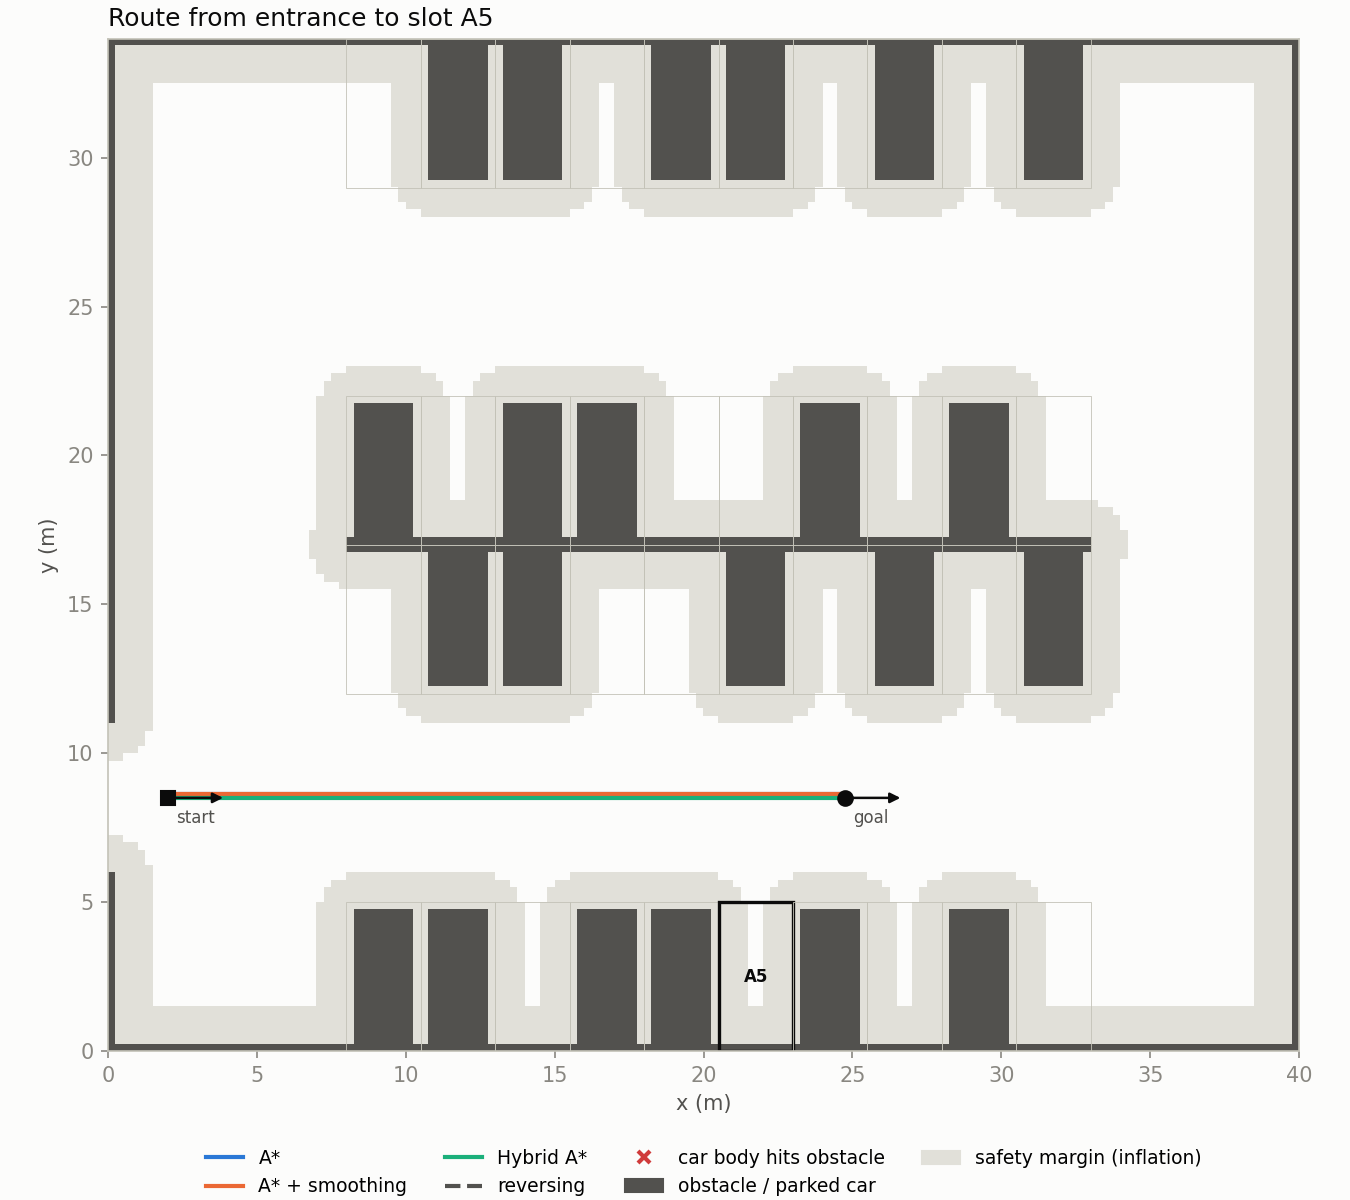
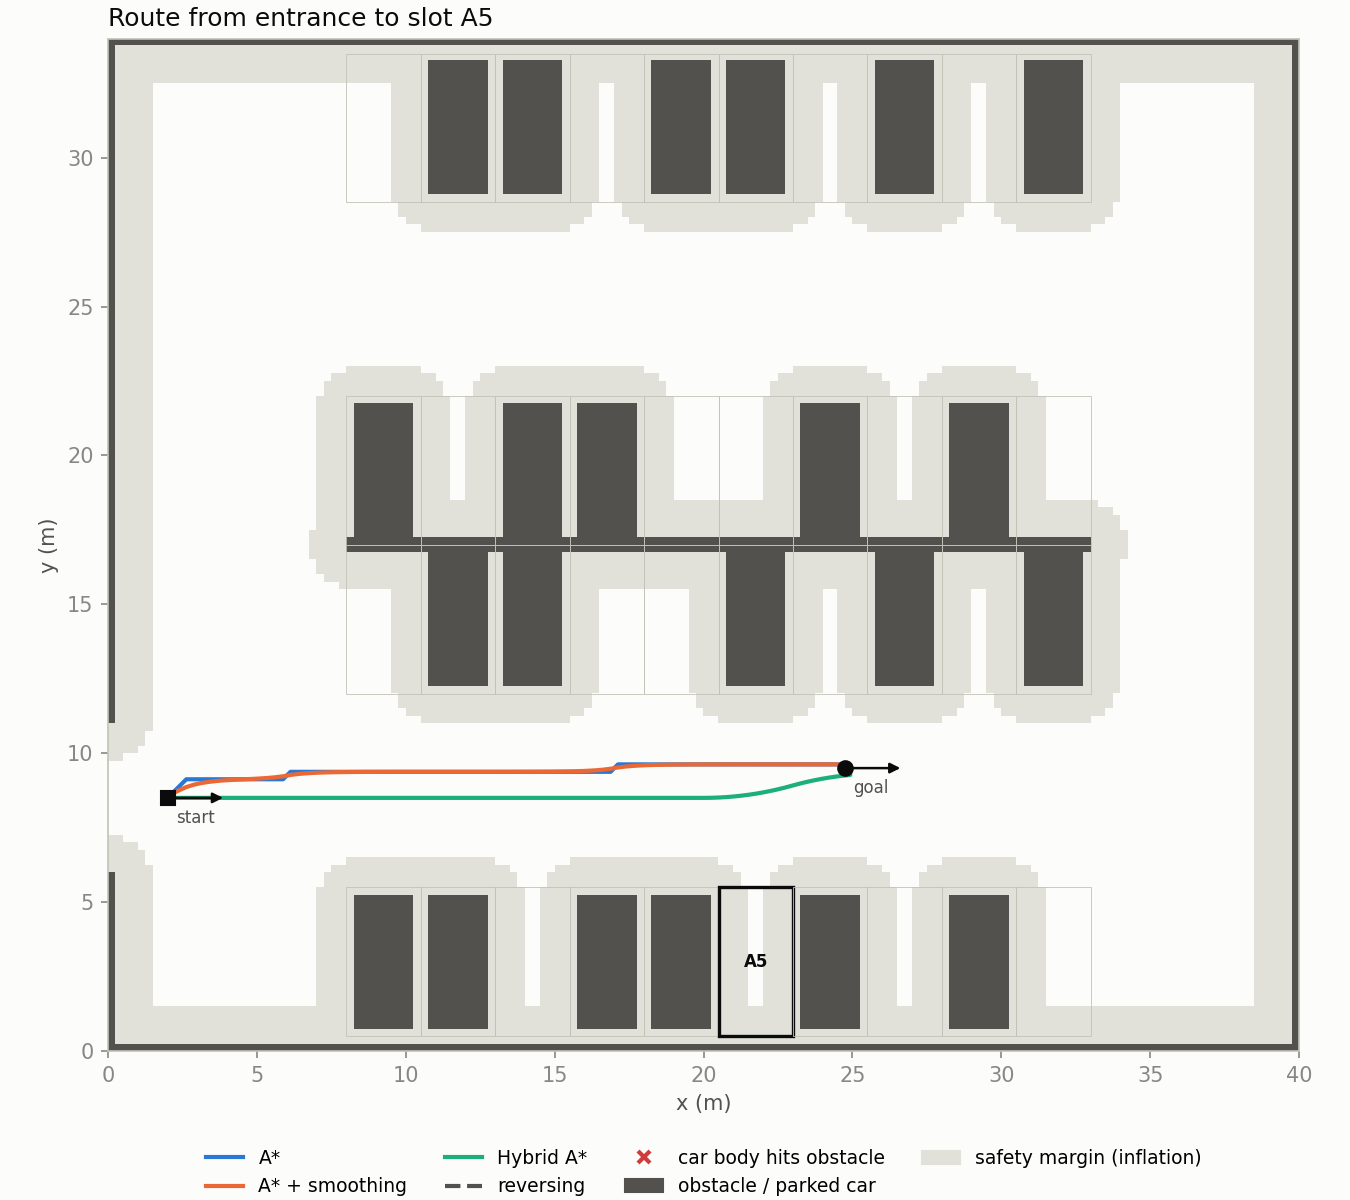
Update planner comparison results for the new lot layout
Rows A and D moved off the wall and the pre-park pose is 4 m from the bay
entrance, so goals and timings changed; the ranking of the methods did not.

diff --git a/results/planner_comparison.md b/results/planner_comparison.md
@@ -9,32 +9,32 @@ Car: wheelbase 2.8 m, max steer 28.6 deg, min turning radius 5.13 m, max curvatu
 
 | Method | Success | Length (m) | Time (ms) | Nodes expanded | Max curvature, worst route (1/m) | Over-limit length (m) | Total turning (deg) | Footprint hits | Goal heading error (deg) |
 |---|---|---|---|---|---|---|---|---|---|
-| A* | 6/6 | 28.7 | 6.7 | 1744 | 2.53 | 3.07 | 458 | 4.5 | 45.0 |
-| A* + smoothing | 6/6 | 28.0 | 12.6 | 1744 | 0.56 | 3.87 | 129 | 2.3 | 40.3 |
-| Hybrid A* | 6/6 | 31.0 | 253.2 | 3840 | 0.20 | 0.00 | 112 | 0.0 | 3.6 |
+| A* | 6/6 | 28.7 | 9.9 | 1715 | 2.53 | 3.27 | 488 | 4.0 | 52.5 |
+| A* + smoothing | 6/6 | 28.0 | 21.6 | 1715 | 1.06 | 3.46 | 128 | 1.8 | 44.7 |
+| Hybrid A* | 6/6 | 31.0 | 372.9 | 3627 | 0.20 | 0.00 | 119 | 0.0 | 3.4 |
 
 ## Per slot
 
 | Slot | Method | Length (m) | Time (ms) | Max curvature (1/m) | Over-limit length (m) | Footprint hits | Direction switches | Goal heading error (deg) |
 |---|---|---|---|---|---|---|---|---|
-| A5 | A* | 22.8 | 0.5 | 0.00 | 0.00 | 0 | 0 | 0.0 |
-| A5 | A* + smoothing | 22.8 | 0.6 | 0.00 | 0.00 | 0 | 0 | 0.0 |
-| A5 | Hybrid A* | 23.0 | 17.1 | 0.00 | 0.00 | 0 | 0 | 0.0 |
-| B3 | A* | 17.8 | 0.4 | 0.00 | 0.00 | 0 | 0 | 0.0 |
-| B3 | A* + smoothing | 17.8 | 0.5 | 0.00 | 0.00 | 0 | 0 | 0.0 |
-| B3 | Hybrid A* | 18.0 | 17.0 | 0.00 | 0.00 | 0 | 0 | 0.0 |
-| C4 | A* | 32.6 | 9.7 | 2.53 | 4.83 | 7 | 0 | 45.0 |
-| C4 | A* + smoothing | 31.5 | 18.6 | 0.54 | 5.42 | 2 | 0 | 33.8 |
-| C4 | Hybrid A* | 33.0 | 156.4 | 0.20 | 0.00 | 0 | 1 | 6.0 |
-| C9 | A* | 39.1 | 12.7 | 2.53 | 4.22 | 7 | 0 | 135.0 |
-| C9 | A* + smoothing | 37.8 | 23.5 | 0.56 | 7.56 | 6 | 0 | 163.5 |
-| C9 | Hybrid A* | 50.0 | 935.8 | 0.20 | 0.00 | 0 | 0 | 7.7 |
-| D0 | A* | 22.6 | 4.4 | 2.53 | 4.53 | 6 | 0 | 45.0 |
-| D0 | A* + smoothing | 21.7 | 9.8 | 0.48 | 3.00 | 0 | 0 | 27.8 |
-| D0 | Hybrid A* | 24.0 | 135.5 | 0.20 | 0.00 | 0 | 1 | 6.7 |
-| D6 | A* | 37.6 | 12.3 | 2.53 | 4.83 | 7 | 0 | 45.0 |
-| D6 | A* + smoothing | 36.3 | 22.8 | 0.56 | 7.26 | 6 | 0 | 16.5 |
-| D6 | Hybrid A* | 38.0 | 257.4 | 0.20 | 0.00 | 0 | 1 | 1.5 |
+| A5 | A* | 23.2 | 1.0 | 2.53 | 1.51 | 0 | 0 | 0.0 |
+| A5 | A* + smoothing | 22.9 | 9.4 | 0.43 | 0.78 | 0 | 0 | 0.0 |
+| A5 | Hybrid A* | 23.0 | 73.9 | 0.09 | 0.00 | 0 | 0 | 5.2 |
+| B3 | A* | 18.0 | 1.4 | 2.53 | 0.30 | 0 | 0 | 45.0 |
+| B3 | A* + smoothing | 17.8 | 8.0 | 0.43 | 0.78 | 0 | 0 | 26.8 |
+| B3 | Hybrid A* | 18.0 | 47.2 | 0.09 | 0.00 | 0 | 0 | 0.0 |
+| C4 | A* | 32.8 | 14.1 | 2.53 | 3.92 | 7 | 0 | 0.0 |
+| C4 | A* + smoothing | 31.8 | 28.6 | 0.50 | 4.87 | 2 | 0 | 17.9 |
+| C4 | Hybrid A* | 34.0 | 234.9 | 0.20 | 0.00 | 0 | 1 | 6.0 |
+| C9 | A* | 39.3 | 17.7 | 2.53 | 3.92 | 7 | 0 | 180.0 |
+| C9 | A* + smoothing | 38.3 | 34.4 | 0.50 | 4.85 | 2 | 0 | 180.0 |
+| C9 | Hybrid A* | 50.0 | 1322.2 | 0.20 | 0.00 | 0 | 0 | 7.7 |
+| D0 | A* | 22.1 | 6.9 | 2.53 | 5.13 | 2 | 0 | 45.0 |
+| D0 | A* + smoothing | 21.3 | 15.7 | 0.46 | 3.76 | 0 | 0 | 27.1 |
+| D0 | Hybrid A* | 23.0 | 209.9 | 0.20 | 0.00 | 0 | 1 | 0.7 |
+| D6 | A* | 37.1 | 18.5 | 2.53 | 4.83 | 8 | 0 | 45.0 |
+| D6 | A* + smoothing | 36.0 | 33.4 | 1.06 | 5.74 | 7 | 0 | 16.5 |
+| D6 | Hybrid A* | 38.0 | 349.5 | 0.20 | 0.00 | 0 | 1 | 0.7 |
 
 ## How to read the columns
 
